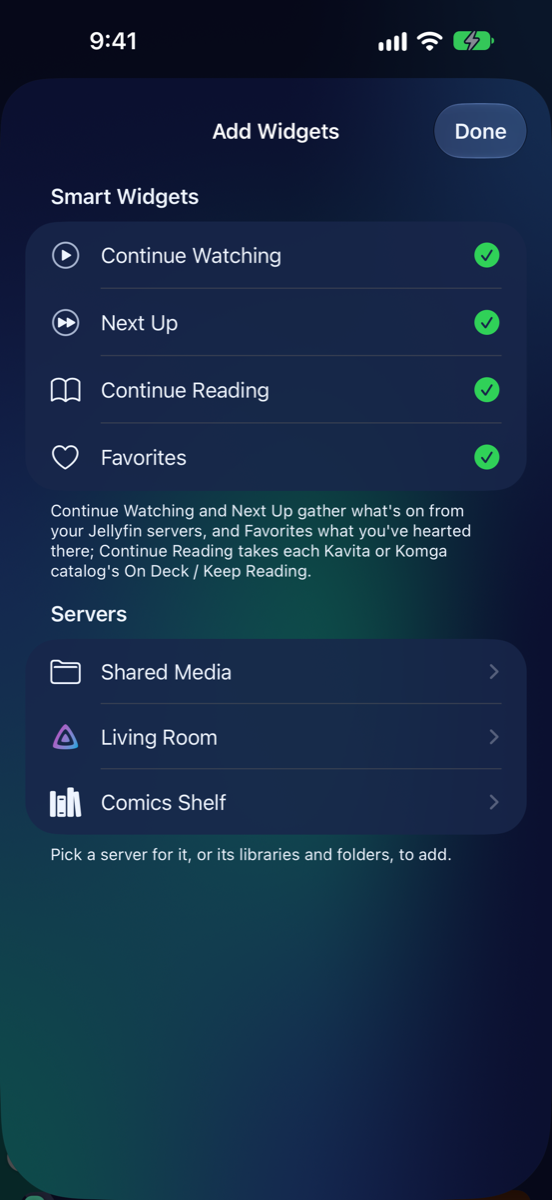
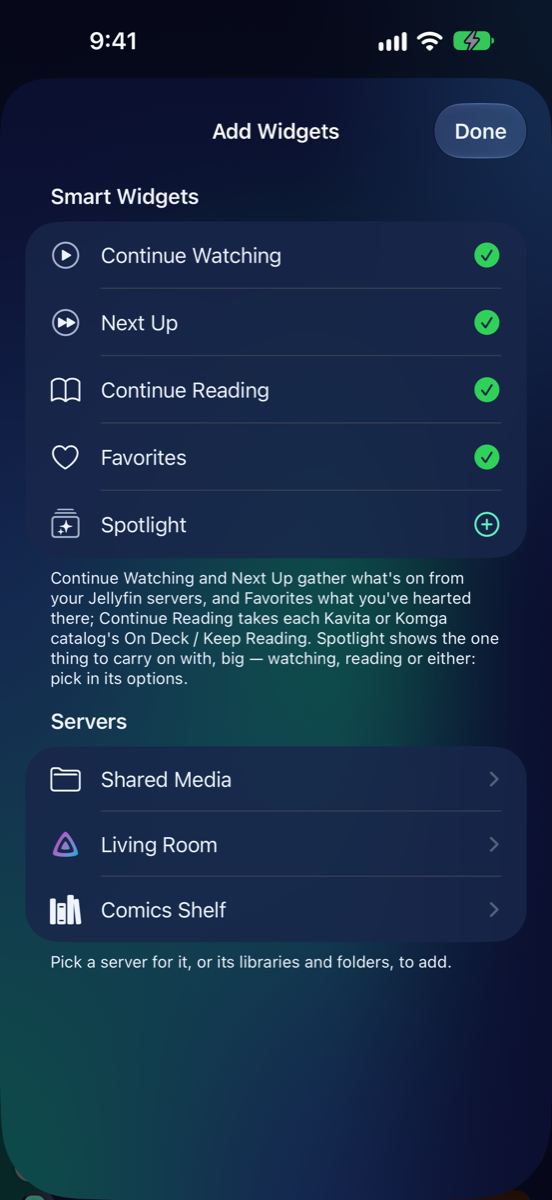
Publish the guide (from 51e354c)

diff --git a/Home-Screen.md b/Home-Screen.md
@@ -39,6 +39,7 @@ The smart widgets are:
 - **Next Up**: the next episode of each show you're partway through on Jellyfin.
 - **Favorites**: what you've marked as a favorite on Jellyfin.
 - **Continue Reading**: where you left off in your Kavita and Komga catalogs (their "On Deck" or "Keep Reading" shelf).
+- **Spotlight**: one big card with the one thing to carry on with. See [Spotlight](#spotlight) below.
 
 A smart widget only shows if you have a server of that kind. In Add Widgets they sit at the top, under **Smart Widgets**.
 
@@ -70,6 +71,25 @@ To take it off again, press and hold it and choose **Remove from Home**.
 
 Private servers are left out unless the Home shows them. See [Privacy and Face ID](Privacy-and-Face-ID.html).
 
+## Spotlight
+
+<div class="shot" markdown="0">
+<div class="shot-variant shot-iphone-18-pro-max"><img src="images/iphone-18-pro-max/home-spotlight.png" alt="A Spotlight widget at the top of Home on an iPhone 18 Pro Max: Harbor Lights big, with how far you are, Resume and Details, on an iPhone 18 Pro Max" loading="lazy"><div class="shot-label">iPhone 18 Pro Max</div></div>
+</div>
+
+The **Spotlight** widget is one big card with the thing you're most likely to carry on with: its picture, how far you are (a bar and the time left), and **Resume** and **Details**. Put it anywhere on any Home.
+
+Tap it while editing to choose what it shows, under **Gathers**:
+
+- **Watching**: what you've started on your Jellyfin servers.
+- **Reading**: where you left off in your Kavita and Komga catalogs.
+- **Both**: whichever you had last. A book counts once you've read it in the app on this device.
+
+Below that, switch servers and catalogs on or off, as for any smart widget.
+
+- With nothing in progress, it shows the newest thing on that Home's first shelf.
+- With nothing at all to show, it keeps out of the way until you edit Home.
+
 ## Widget styles
 
 Tap a widget while editing (see below) and choose **Style**. Each style is a different size:
@@ -82,7 +102,7 @@ Tap a widget while editing (see below) and choose **Style**. Each style is a dif
 - **Large Carousel**: big covers that turn sideways, one in the middle.
 - **Small Carousel**: the same, smaller, with blurred covers on each side.
 
-Smart widgets are always shelves, so they don't offer **Tile** or **Cover**.
+Smart widgets are always shelves, so they don't offer **Tile** or **Cover**. Spotlight is always its card, so it has no **Style**.
 
 A shelf also has two more choices:
 
@@ -168,7 +188,8 @@ Home can also list your saved servers (**Shares**, **Jellyfin** and **Catalogs**
 
 Open on its side, Home starts in **Spotlight**. Left of the fold is the one thing you're most likely to carry on with, big, drawn on the item's own backdrop, with how far you are (a bar and the time left) and **Resume** and **Details** on it, and **Continue Watching** under it, two to a row. Right of the fold are the rest of your shelves. Nothing sits across the fold.
 
-- With no Continue Watching on that Home, the spotlight shows the newest thing on its first shelf.
+- With a [Spotlight](#spotlight) widget on that Home, that's the card left of the fold, with what it gathers under it.
+- With no Spotlight or Continue Watching on that Home, the spotlight shows the newest thing on its first shelf.
 - While you edit Home, it's two columns, so you can drag a widget anywhere.
 - To go back to another layout, choose it in Settings → Home Screen → **Unfolded, on Its Side**.
 

diff --git a/whats-new.md b/whats-new.md
@@ -12,6 +12,30 @@ The highlights of each MK Plus update since public TestFlight testing began (ver
 
 ## November 2026
 
+### Spotlight as a widget
+
+_Version 1.373.0 · 16 November 2026_
+
+- Spotlight is now a widget: one big card with what you're partway through, Resume and Details.
+- Put it on any Home, on any iPhone or iPad, and pick whether it shows watching, reading or both.
+
+<img src="images/iphone-18-pro-max/home-spotlight.png" width="300" alt="A Spotlight widget at the top of Home on an iPhone 18 Pro Max: Continue Watching, Harbor Lights big with Drama, 2019, PG-13, a bar and 1 hr 22 min left, then Resume and Details">
+
+<details markdown="1">
+<summary>Everything in 1.373.0</summary>
+
+**New**
+
+- Spotlight in Add Widgets: the one thing to carry on with, big, with how far you are, Resume and Details.
+- In its options, pick Watching, Reading or Both (whichever you had last), and which servers and catalogs it takes from.
+- With nothing in progress, it shows the newest thing on that Home's first shelf.
+
+**Changed**
+
+- On the open Duo on its side and the iPad, Home's Spotlight layout puts your Spotlight widget left of the fold.
+
+</details>
+
 ### A Spotlight that fills its half
 
 _Version 1.372.3 · 15 November 2026_
